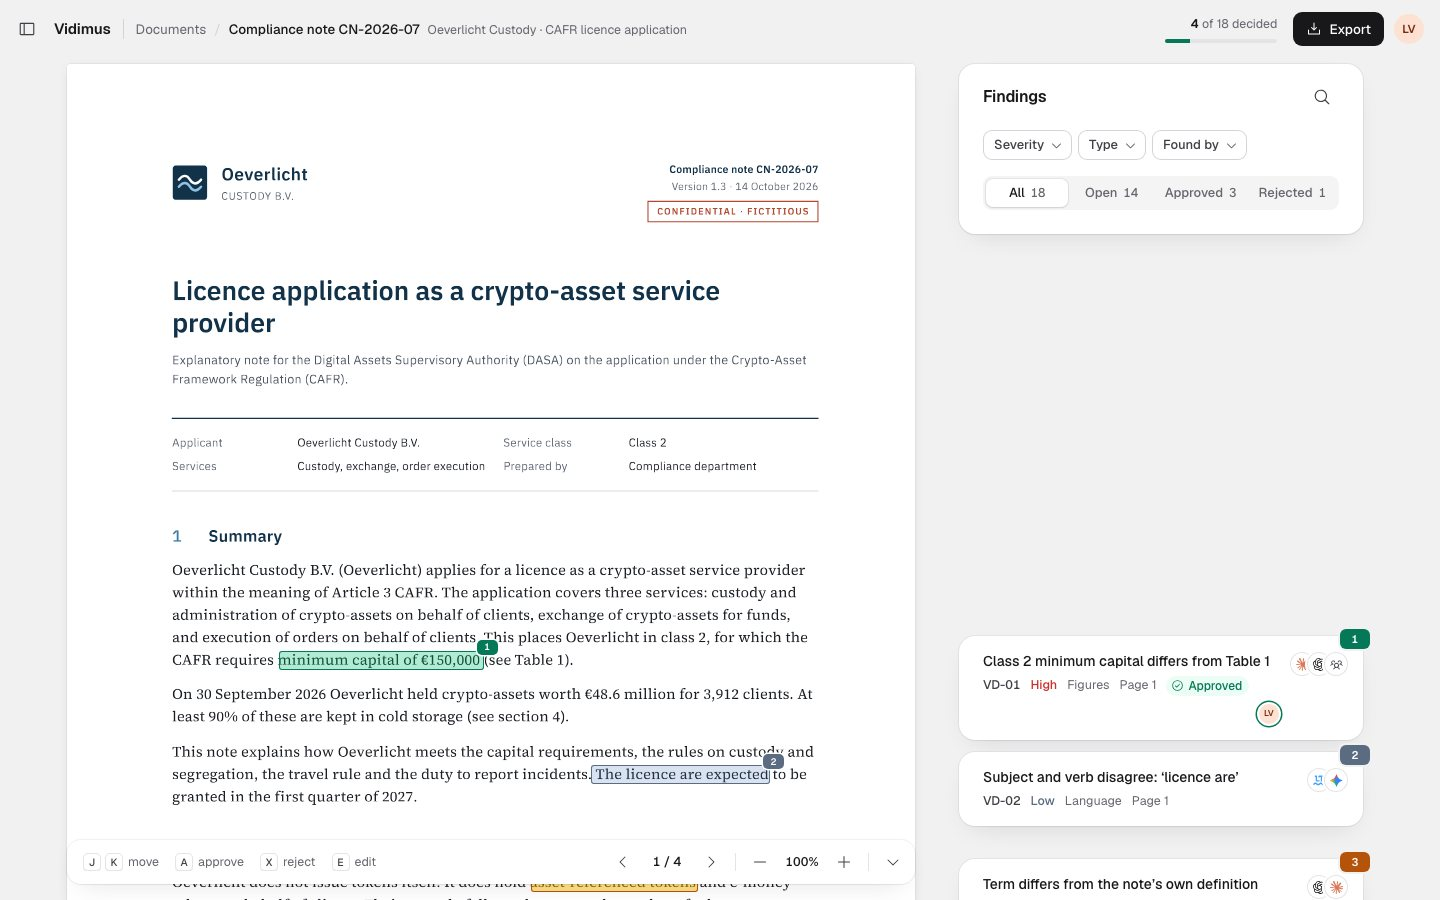
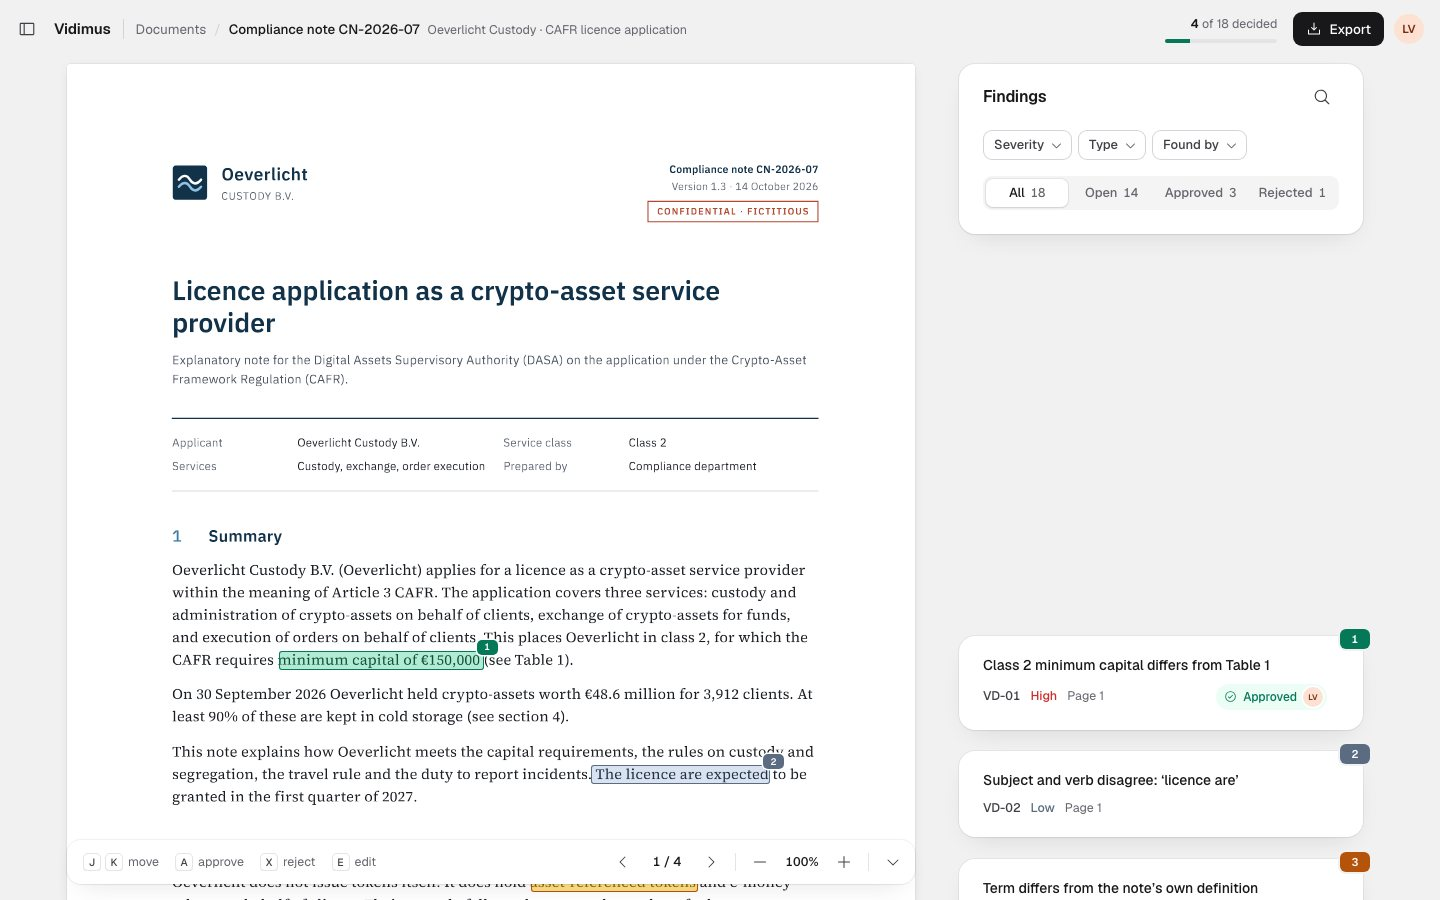
docs: retake the README screenshots after the card changes
The badges on highlights, the corner tags on cards, the status pill and
the tool logos in Found by now show in every screenshot; the README
describes the badges instead of the old gutter numbers.

Changed region(s): [[0.6875, 0.7156, 0.9375, 0.9333], [0.6875, 0.9644, 0.875, 0.9956], [0.9062, 0.9644, 0.9375, 0.9956]]

diff --git a/README.md b/README.md
@@ -8,7 +8,7 @@ A review desk for regulatory documents. AI models and language tools read the do
 
 ## What the desk does
 
-- **One document, mistakes marked in place.** The desk renders the PDF itself with PDF.js, finds each finding's quoted text in it and tints that text. Numbered markers sit in a gutter beside the page, never on the text. Every finding has a key (`VD-01` …) the team can refer to.
+- **One document, mistakes marked in place.** The desk renders the PDF itself with PDF.js, finds each finding's quoted text in it and tints that text with a see-through colour, so the words stay readable. A small numbered badge sits at the highlight's top corner, and the same number tags its card. Every finding has a key (`VD-01` …) the team can refer to.
 - **Findings float beside the page, like comments in Google Docs.** Each finding is a card level with its text that scrolls with the document. Folded, it shows its title, severity and who decided; opened, it shows the current text, the suggestion (the new wording, changes in green), any alternative wording from another tool, and the decisions. The cards around it move aside.
 - **Filters** by severity, type and the tool that found it, with counts, plus All / Open / Approved / Rejected and a search. They stay pinned at the top of the findings.
 - **Team decisions.** Approve, reject or edit a suggestion; each decision records who made it and when, so one finding can be approved by one person and rejected by another.
